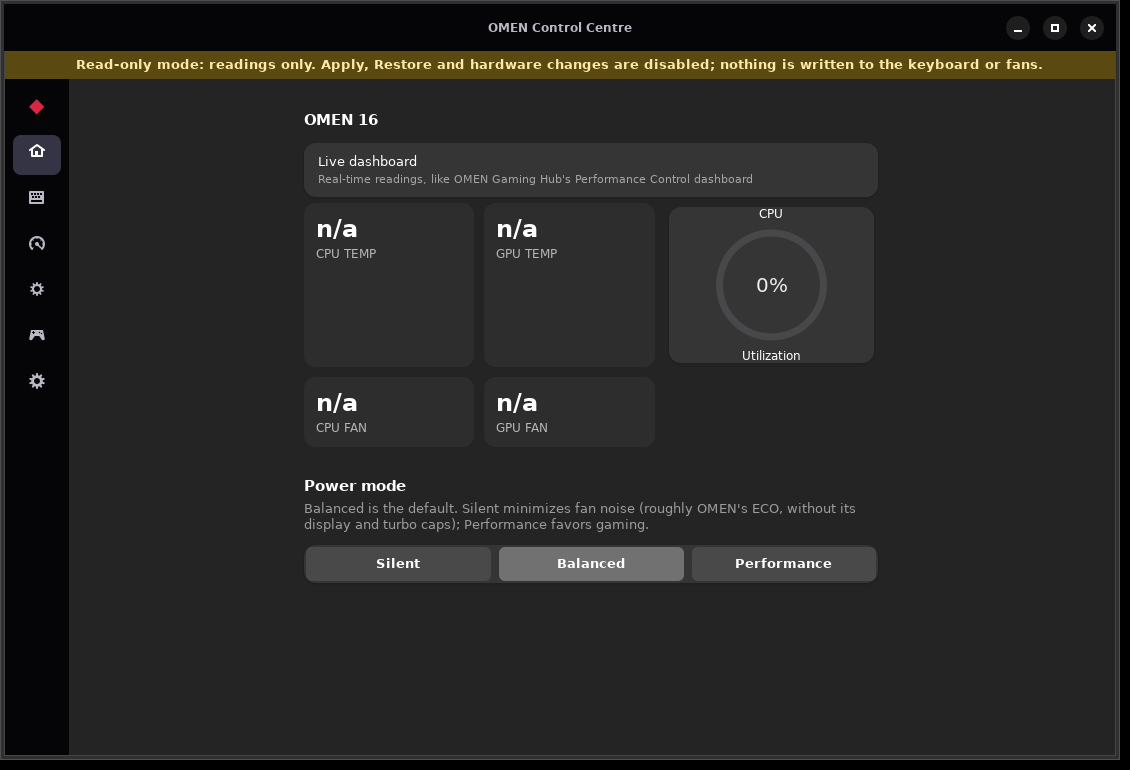
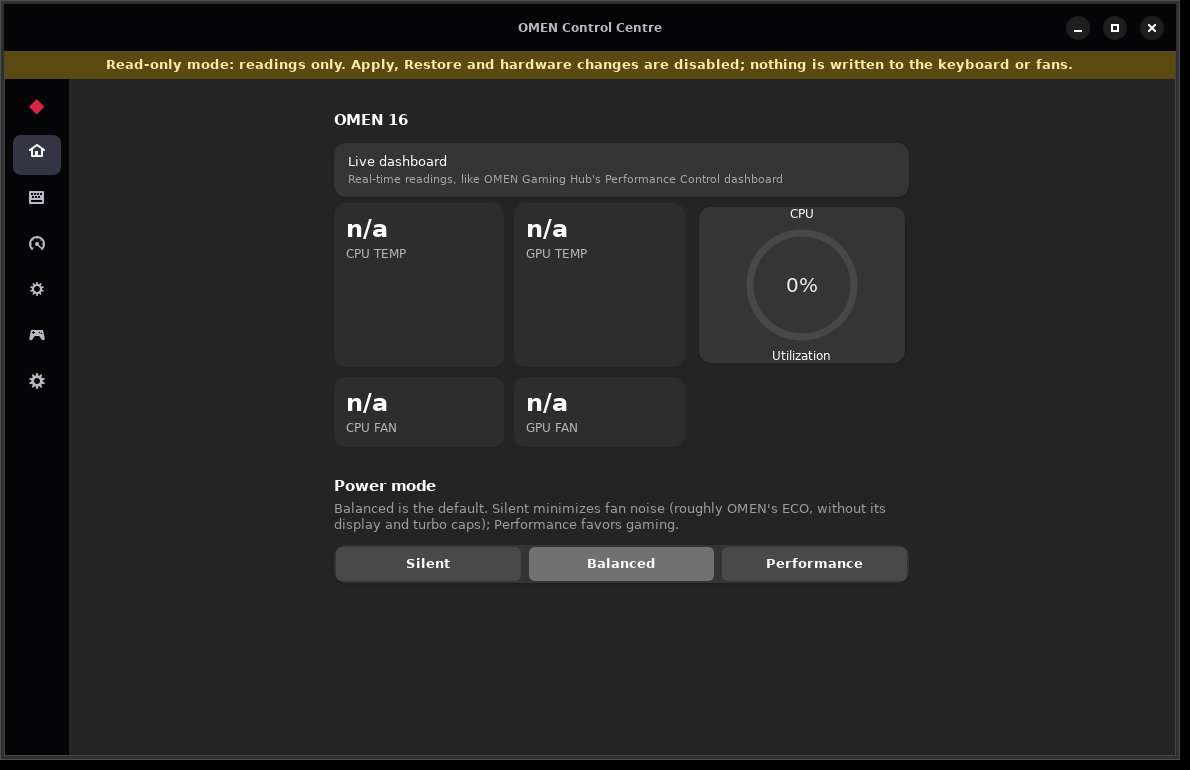
Layers: edit/duplicate/rename, secondary colour only for effects that use it; layout fit; screenshots

diff --git a/src/omen-centre.py b/src/omen-centre.py
@@ -849,7 +849,7 @@ class OmenWindow(Adw.ApplicationWindow):
     def __init__(self, app):
         super().__init__(application=app)
         self.set_title("Omen Control Centre")
-        self.set_default_size(1120, 760)
+        self.set_default_size(1180, 760)
         self._loading = True
 
         provider = Gtk.CssProvider()
@@ -1251,7 +1251,7 @@ class OmenWindow(Adw.ApplicationWindow):
 
         # Layers panel (left)
         layers = Gtk.Box(orientation=Gtk.Orientation.VERTICAL, spacing=4)
-        layers.set_size_request(190, -1)
+        layers.set_size_request(240, -1)
         lcap = Gtk.Label(label="Layers")
         lcap.add_css_class("heading")
         lcap.set_halign(Gtk.Align.START)
@@ -1634,11 +1634,15 @@ class OmenWindow(Adw.ApplicationWindow):
         for layer in self._ls_comp.layers:
             r = Adw.ActionRow(
                 title=layer.name,
-                subtitle="%s - zones %s" % (
-                    layer.ltype,
-                    ",".join("Z%d" % ZONE_ORDER[z] for z in layer.zones)))
+                subtitle=layer.ltype.capitalize() + (
+                    "" if len(layer.zones) == 4 else " \u00b7 " + " ".join(
+                        "Z%d" % ZONE_ORDER[z] for z in layer.zones)))
+            r.set_title_lines(1)
+            r.set_subtitle_lines(1)
             r.set_activatable(True)
             r.connect("activated", self._on_ls_layer_row, layer)
+            sfx = Gtk.Box(orientation=Gtk.Orientation.HORIZONTAL, spacing=0)
+            sfx.set_valign(Gtk.Align.CENTER)
             eye = Gtk.ToggleButton()
             eye.add_css_class("flat")
             eye.set_child(Gtk.Image.new_from_icon_name(
@@ -1647,14 +1651,28 @@ class OmenWindow(Adw.ApplicationWindow):
             eye.set_active(layer.enabled)
             eye.set_tooltip_text("Show/hide layer in preview")
             eye.connect("toggled", self._on_ls_eye, layer)
-            r.add_suffix(eye)
+            sfx.append(eye)
+            ed = Gtk.Button()
+            ed.add_css_class("flat")
+            ed.set_child(Gtk.Image.new_from_icon_name(
+                "document-edit-symbolic"))
+            ed.set_tooltip_text("Edit layer")
+            ed.connect("clicked", self._on_ls_layer_row, layer)
+            sfx.append(ed)
+            cp = Gtk.Button()
+            cp.add_css_class("flat")
+            cp.set_child(Gtk.Image.new_from_icon_name("edit-copy-symbolic"))
+            cp.set_tooltip_text("Duplicate layer")
+            cp.connect("clicked", self._on_ls_duplicate, layer)
+            sfx.append(cp)
             dele = Gtk.Button()
             dele.add_css_class("flat")
             dele.set_child(Gtk.Image.new_from_icon_name(
                 "user-trash-symbolic"))
             dele.set_tooltip_text("Delete layer")
             dele.connect("clicked", self._on_ls_delete, layer)
-            r.add_suffix(dele)
+            sfx.append(dele)
+            r.add_suffix(sfx)
             lbox.append(r)
             if layer is self._ls_selected:
                 lbox.select_row(r)
@@ -1673,6 +1691,23 @@ class OmenWindow(Adw.ApplicationWindow):
             else "view-conceal-symbolic"))
         self._ls_rebuild_layers()
 
+    def _on_ls_duplicate(self, _btn, layer):
+        copy = layer.clone(layer.name + " copy")
+        idx = self._ls_comp.layers.index(layer) + 1
+        self._ls_comp.layers.insert(idx, copy)
+        self._ls_selected = copy
+        self._ls_rebuild_layers()
+
+    def _on_ls_rename(self, entry, layer):
+        name = entry.get_text().strip()
+        if name:
+            layer.name = name
+            # update the row title without rebuilding (keeps entry focus)
+            for i, l in enumerate(self._ls_comp.layers, start=1):
+                row = self._ls_lbox.get_row_at_index(i)
+                if l is layer and row is not None:
+                    row.set_title(name)
+
     def _on_ls_delete(self, _btn, layer):
         self._ls_comp.remove_layer(layer)
         if self._ls_selected is layer:
@@ -1689,16 +1724,19 @@ class OmenWindow(Adw.ApplicationWindow):
         layer = self._ls_selected
         if layer is None:
             return
-        cap = Gtk.Label(label="Edit: " + layer.name)
-        cap.add_css_class("heading")
-        cap.set_halign(Gtk.Align.START)
-        box.append(cap)
+        name = Gtk.Entry()
+        name.set_text(layer.name)
+        name.set_tooltip_text("Layer name")
+        name.connect("changed", self._on_ls_rename, layer)
+        box.append(name)
         dd = Gtk.DropDown.new_from_strings(
             [t.capitalize() for t in le.LAYER_TYPES])
         dd.set_selected(le.LAYER_TYPES.index(layer.ltype))
         dd.connect("notify::selected", self._on_ls_type, layer)
         box.append(dd)
         for attr, label in (("primary", "Primary"), ("secondary", "Secondary")):
+            if attr == "secondary" and not layer.uses_secondary():
+                continue  # this effect never uses it; do not show a dead control
             row = Gtk.Box(orientation=Gtk.Orientation.HORIZONTAL, spacing=6)
             lab = Gtk.Label(label=label)
             lab.set_hexpand(True)
@@ -1728,6 +1766,9 @@ class OmenWindow(Adw.ApplicationWindow):
 
     def _on_ls_type(self, dd, _p, layer):
         layer.ltype = le.LAYER_TYPES[dd.get_selected()]
+        # Secondary colour row depends on the type; rebuild after this
+        # signal returns (the dropdown is being torn down).
+        GLib.idle_add(self._ls_rebuild_layers)
 
     def _on_ls_color(self, b, layer, attr):
         picker = ColorPicker(

diff --git a/src/light_engine.py b/src/light_engine.py
@@ -41,6 +41,10 @@ def _scale(rgb, k):
     return (int(rgb[0] * k), int(rgb[1] * k), int(rgb[2] * k))
 
 
+# Layer types whose output actually uses the secondary colour.
+SECONDARY_TYPES = ("wave", "gradient")
+
+
 class Layer:
     """One software layer: an effect with colors, speed and a zone mask."""
 
@@ -58,6 +62,13 @@ class Layer:
         self.speed = max(0, min(100, int(speed)))
         self.zones = tuple(sorted(set(zones)))
         self.enabled = enabled
+
+    def uses_secondary(self):
+        return self.ltype in SECONDARY_TYPES
+
+    def clone(self, name):
+        return Layer(name, self.ltype, self.primary, self.secondary,
+                     self.speed, self.zones, self.enabled)
 
     def covers(self, z):
         return z in self.zones

diff --git a/tests/test_light_engine.py b/tests/test_light_engine.py
@@ -90,3 +90,20 @@ class CompositorTest(unittest.TestCase):
 
 if __name__ == "__main__":
     unittest.main()
+
+
+class LayerOpsTest(unittest.TestCase):
+    def test_secondary_only_for_types_that_use_it(self):
+        import light_engine as le
+        for t in le.LAYER_TYPES:
+            self.assertEqual(le.Layer("x", t).uses_secondary(),
+                             t in ("wave", "gradient"))
+
+    def test_clone_is_independent(self):
+        import light_engine as le
+        a = le.Layer("a", "gradient", zones=(0, 1))
+        b = a.clone("b")
+        b.primary = "123456"
+        b.zones = (3,)
+        self.assertEqual((a.name, a.primary, a.zones),
+                         ("a", "FF8800", (0, 1)))

diff --git a/README.md b/README.md
@@ -186,6 +186,7 @@ Screenshots below use a mock sysfs tree in read-only mode, so readings show
 ![Home](docs/screenshots/home.png)
 ![Lighting](docs/screenshots/lighting.png)
 ![Performance](docs/screenshots/performance.png)
+![Software layers: duplicate, rename, show/hide, delete (preview only)](docs/screenshots/layers.png)
 
 ## Zone order
 
